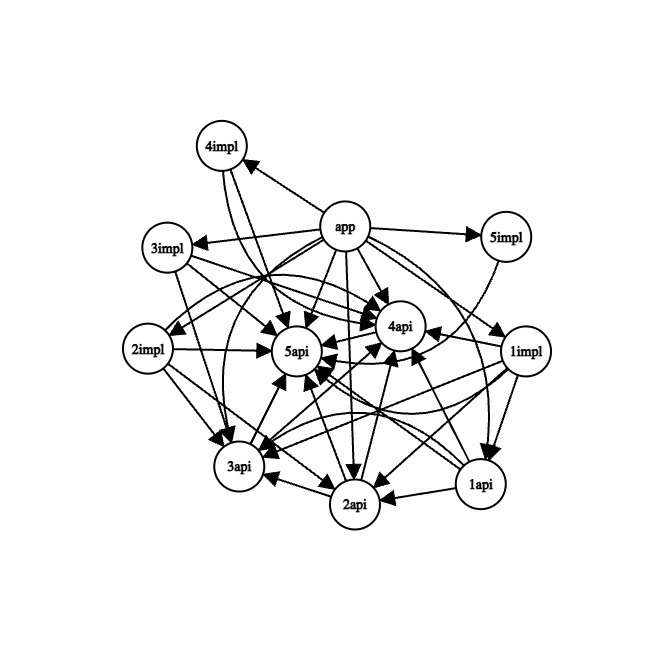
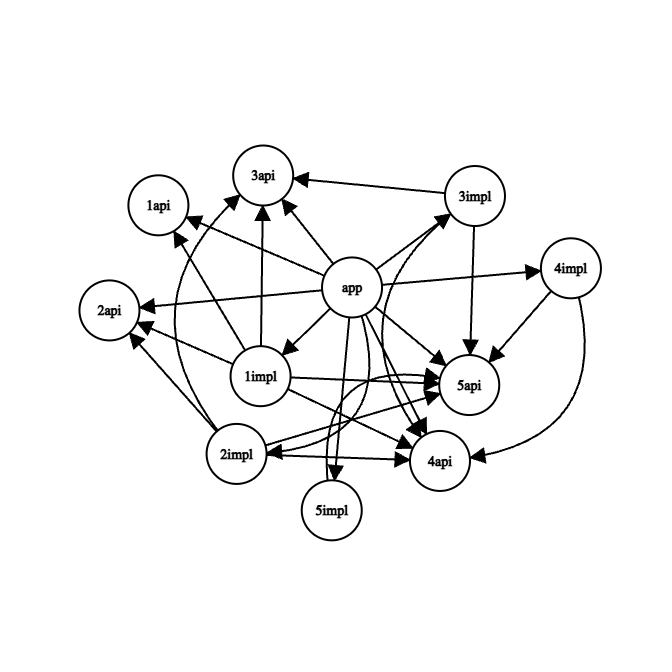
variant3

diff --git a/application/src/main/java/ru/rma/app/App.java b/application/src/main/java/ru/rma/app/App.java
@@ -2,12 +2,20 @@ package ru.rma.app;
 
 import ru.rma.library01.Library01;
 import ru.rma.library01.Library01Impl;
+import ru.rma.library01.Library01Mediator;
+import ru.rma.library01.Library01MediatorImpl;
 import ru.rma.library02.Library02;
 import ru.rma.library02.Library02Impl;
+import ru.rma.library02.Library02Mediator;
+import ru.rma.library02.Library02MediatorImpl;
 import ru.rma.library03.Library03;
 import ru.rma.library03.Library03Impl;
+import ru.rma.library03.Library03Mediator;
+import ru.rma.library03.Library03MediatorImpl;
 import ru.rma.library04.Library04;
 import ru.rma.library04.Library04Impl;
+import ru.rma.library04.Library04Mediator;
+import ru.rma.library04.Library04MediatorImpl;
 import ru.rma.library05.Library05;
 import ru.rma.library05.Library05Impl;
 
@@ -15,10 +23,14 @@ public class App {
 
     public static void main(String[] args) {
         final Library05 library05 = new Library05Impl();
-        final Library04 library04 = new Library04Impl(library05);
-        final Library03 library03 = new Library03Impl(library04, library05);
-        final Library02 library02 = new Library02Impl(library03, library04, library05);
-        final Library01 library01 = new Library01Impl(library02, library03, library04, library05);
+        final Library04Mediator library04Mediator = new Library04MediatorImpl(library05);
+        final Library04 library04 = new Library04Impl(library04Mediator);
+        final Library03Mediator library03Mediator = new Library03MediatorImpl(library04, library05);
+        final Library03 library03 = new Library03Impl(library03Mediator);
+        final Library02Mediator library02Mediator = new Library02MediatorImpl(library03, library04, library05);
+        final Library02 library02 = new Library02Impl(library02Mediator);
+        final Library01Mediator library01Mediator = new Library01MediatorImpl(library02, library03, library04, library05);
+        final Library01 library01 = new Library01Impl(library01Mediator);
         System.out.println(library01.name01());
     }
 }

diff --git a/sources/library01/impl/src/main/java/ru/rma/library01/Library01Impl.java b/sources/library01/impl/src/main/java/ru/rma/library01/Library01Impl.java
@@ -1,34 +1,20 @@
 package ru.rma.library01;
 
-import ru.rma.library02.Library02;
-import ru.rma.library03.Library03;
-import ru.rma.library04.Library04;
-import ru.rma.library05.Library05;
-
 public class Library01Impl implements Library01 {
 
-    private final Library02 library02;
+    private final Library01Mediator library01Mediator;
 
-    private final Library03 library03;
-
-    private final Library04 library04;
-
-    private final Library05 library05;
-
-    public Library01Impl(Library02 library02, Library03 library03, Library04 library04, Library05 library05) {
-        this.library02 = library02;
-        this.library03 = library03;
-        this.library04 = library04;
-        this.library05 = library05;
+    public Library01Impl(Library01Mediator library01Mediator) {
+        this.library01Mediator = library01Mediator;
     }
 
     @Override
     public String name01() {
-        return name01(library02, library03, library04, library05);
+        return name01(library01Mediator);
     }
 
     @Override
-    public String name01(Library02 library02, Library03 library03, Library04 library04, Library05 library05) {
-        return "Library01Impl: " + library02.name02() + ": " + library03.name03() + ": " + library04.name04() + ": " + library05.name05();
+    public String name01(Library01Mediator library01Mediator) {
+        return "Library01Impl: " + library01Mediator.name02() + ": " + library01Mediator.name03() + ": " + library01Mediator.name04() + ": " + library01Mediator.name05();
     }
 }

diff --git a/sources/library02/impl/src/main/java/ru/rma/library02/Library02Impl.java b/sources/library02/impl/src/main/java/ru/rma/library02/Library02Impl.java
@@ -1,30 +1,20 @@
 package ru.rma.library02;
 
-import ru.rma.library03.Library03;
-import ru.rma.library04.Library04;
-import ru.rma.library05.Library05;
-
 public class Library02Impl implements Library02 {
 
-    private final Library03 library03;
+    private final Library02Mediator library02Mediator;
 
-    private final Library04 library04;
-
-    private final Library05 library05;
-
-    public Library02Impl(Library03 library03, Library04 library04, Library05 library05) {
-        this.library03 = library03;
-        this.library04 = library04;
-        this.library05 = library05;
+    public Library02Impl(Library02Mediator library02Mediator) {
+        this.library02Mediator = library02Mediator;
     }
 
     @Override
     public String name02() {
-        return name02(library03, library04, library05);
+        return name02(library02Mediator);
     }
 
     @Override
-    public String name02(Library03 library03, Library04 library04, Library05 library05) {
-        return "Library02Impl: " + library03.name03() + ": " + library04.name04() + ": " + library05.name05();
+    public String name02(Library02Mediator library02Mediator) {
+        return "Library02Impl: " + library02Mediator.name03() + ": " + library02Mediator.name04() + ": " + library02Mediator.name05();
     }
 }

diff --git a/sources/library03/impl/src/main/java/ru/rma/library03/Library03Impl.java b/sources/library03/impl/src/main/java/ru/rma/library03/Library03Impl.java
@@ -1,27 +1,21 @@
 package ru.rma.library03;
 
-import ru.rma.library04.Library04;
-import ru.rma.library05.Library05;
-
 public class Library03Impl implements Library03 {
 
-    private final Library04 library04;
+    private final Library03Mediator library03Mediator;
 
-    private final Library05 library05;
-
-    public Library03Impl(Library04 library04, Library05 library05) {
-        this.library04 = library04;
-        this.library05 = library05;
+    public Library03Impl(Library03Mediator library03Mediator) {
+        this.library03Mediator = library03Mediator;
     }
 
 
     @Override
     public String name03() {
-        return name03(library04, library05);
+        return name03(library03Mediator);
     }
 
     @Override
-    public String name03(Library04 library04, Library05 library05) {
-        return "Library03Impl: " + library04.name04() + ": " + library05.name05();
+    public String name03(Library03Mediator library03Mediator) {
+        return "Library03Impl: " + library03Mediator.name04() + ": " + library03Mediator.name05();
     }
 }

diff --git a/sources/library01/impl/src/main/java/ru/rma/library01/Library01MediatorImpl.java b/sources/library01/impl/src/main/java/ru/rma/library01/Library01MediatorImpl.java
@@ -1,0 +1,44 @@
+package ru.rma.library01;
+
+import ru.rma.library02.Library02;
+import ru.rma.library03.Library03;
+import ru.rma.library04.Library04;
+import ru.rma.library05.Library05;
+
+public class Library01MediatorImpl implements Library01Mediator {
+
+    private final Library02 library02;
+
+    private final Library03 library03;
+
+    private final Library04 library04;
+
+    private final Library05 library05;
+
+    public Library01MediatorImpl(Library02 library02, Library03 library03, Library04 library04, Library05 library05) {
+        this.library02 = library02;
+        this.library03 = library03;
+        this.library04 = library04;
+        this.library05 = library05;
+    }
+
+    @Override
+    public String name02() {
+        return library02.name02();
+    }
+
+    @Override
+    public String name03() {
+        return library03.name03();
+    }
+
+    @Override
+    public String name04() {
+        return library04.name04();
+    }
+
+    @Override
+    public String name05() {
+        return library05.name05();
+    }
+}

diff --git a/sources/library02/impl/src/main/java/ru/rma/library02/Library02MediatorImpl.java b/sources/library02/impl/src/main/java/ru/rma/library02/Library02MediatorImpl.java
@@ -1,0 +1,35 @@
+package ru.rma.library02;
+
+import ru.rma.library03.Library03;
+import ru.rma.library04.Library04;
+import ru.rma.library05.Library05;
+
+public class Library02MediatorImpl implements Library02Mediator {
+
+    private final Library03 library03;
+
+    private final Library04 library04;
+
+    private final Library05 library05;
+
+    public Library02MediatorImpl(Library03 library03, Library04 library04, Library05 library05) {
+        this.library03 = library03;
+        this.library04 = library04;
+        this.library05 = library05;
+    }
+
+    @Override
+    public String name03() {
+        return library03.name03();
+    }
+
+    @Override
+    public String name04() {
+        return library04.name04();
+    }
+
+    @Override
+    public String name05() {
+        return library05.name05();
+    }
+}

diff --git a/sources/library04/impl/src/main/java/ru/rma/library04/Library04Impl.java b/sources/library04/impl/src/main/java/ru/rma/library04/Library04Impl.java
@@ -1,22 +1,20 @@
 package ru.rma.library04;
 
-import ru.rma.library05.Library05;
-
 public class Library04Impl implements Library04 {
 
-    private final Library05 library05;
+    private final Library04Mediator library04Mediator;
 
-    public Library04Impl(Library05 library05) {
-        this.library05 = library05;
+    public Library04Impl(Library04Mediator library04Mediator) {
+        this.library04Mediator = library04Mediator;
     }
 
     @Override
     public String name04() {
-        return name04(library05);
+        return name04(library04Mediator);
     }
 
     @Override
-    public String name04(Library05 library05) {
-        return "Library04Impl: " + library05.name05();
+    public String name04(Library04Mediator library04Mediator) {
+        return "Library04Impl: " + library04Mediator.name05();
     }
 }

diff --git a/sources/library03/impl/src/main/java/ru/rma/library03/Library03MediatorImpl.java b/sources/library03/impl/src/main/java/ru/rma/library03/Library03MediatorImpl.java
@@ -1,0 +1,26 @@
+package ru.rma.library03;
+
+import ru.rma.library04.Library04;
+import ru.rma.library05.Library05;
+
+public class Library03MediatorImpl implements Library03Mediator {
+
+    private final Library04 library04;
+
+    private final Library05 library05;
+
+    public Library03MediatorImpl(Library04 library04, Library05 library05) {
+        this.library04 = library04;
+        this.library05 = library05;
+    }
+
+    @Override
+    public String name04() {
+        return library04.name04();
+    }
+
+    @Override
+    public String name05() {
+        return library05.name05();
+    }
+}

diff --git a/sources/library01/api/src/main/java/ru/rma/library01/Library01.java b/sources/library01/api/src/main/java/ru/rma/library01/Library01.java
@@ -1,13 +1,8 @@
 package ru.rma.library01;
 
-import ru.rma.library02.Library02;
-import ru.rma.library03.Library03;
-import ru.rma.library04.Library04;
-import ru.rma.library05.Library05;
-
 public interface Library01 {
 
     String name01();
 
-    String name01(Library02 library02, Library03 library03, Library04 library04, Library05 library05);
+    String name01(Library01Mediator library01Mediator);
 }

diff --git a/sources/library04/impl/src/main/java/ru/rma/library04/Library04MediatorImpl.java b/sources/library04/impl/src/main/java/ru/rma/library04/Library04MediatorImpl.java
@@ -1,0 +1,17 @@
+package ru.rma.library04;
+
+import ru.rma.library05.Library05;
+
+public class Library04MediatorImpl implements Library04Mediator {
+
+    private final Library05 library05;
+
+    public Library04MediatorImpl(Library05 library05) {
+        this.library05 = library05;
+    }
+
+    @Override
+    public String name05() {
+        return library05.name05();
+    }
+}

diff --git a/sources/library02/api/src/main/java/ru/rma/library02/Library02.java b/sources/library02/api/src/main/java/ru/rma/library02/Library02.java
@@ -1,12 +1,8 @@
 package ru.rma.library02;
 
-import ru.rma.library03.Library03;
-import ru.rma.library04.Library04;
-import ru.rma.library05.Library05;
-
 public interface Library02 {
 
     String name02();
 
-    String name02(Library03 library03, Library04 library04, Library05 library05);
+    String name02(Library02Mediator library02Mediator);
 }

diff --git a/sources/library03/api/src/main/java/ru/rma/library03/Library03.java b/sources/library03/api/src/main/java/ru/rma/library03/Library03.java
@@ -1,11 +1,8 @@
 package ru.rma.library03;
 
-import ru.rma.library04.Library04;
-import ru.rma.library05.Library05;
-
 public interface Library03 {
 
     String name03();
 
-    String name03(Library04 library04, Library05 library05);
+    String name03(Library03Mediator library03Mediator);
 }
